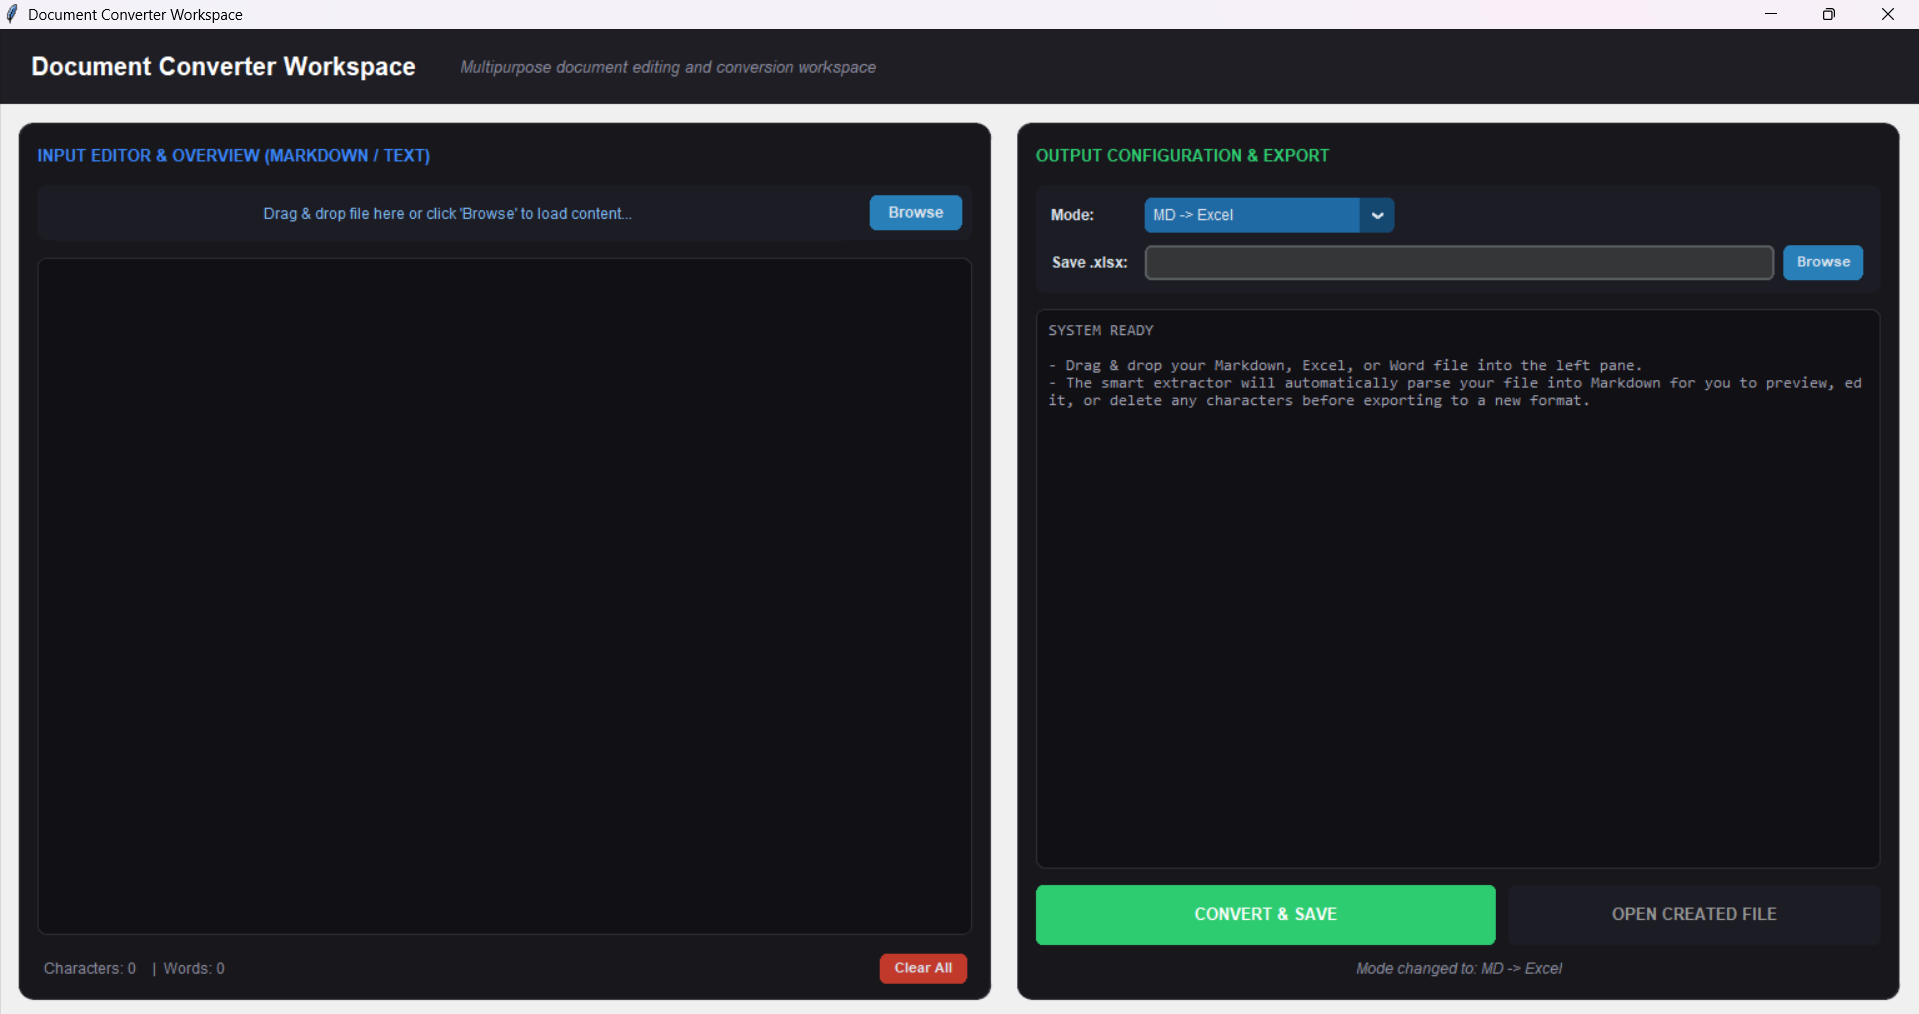
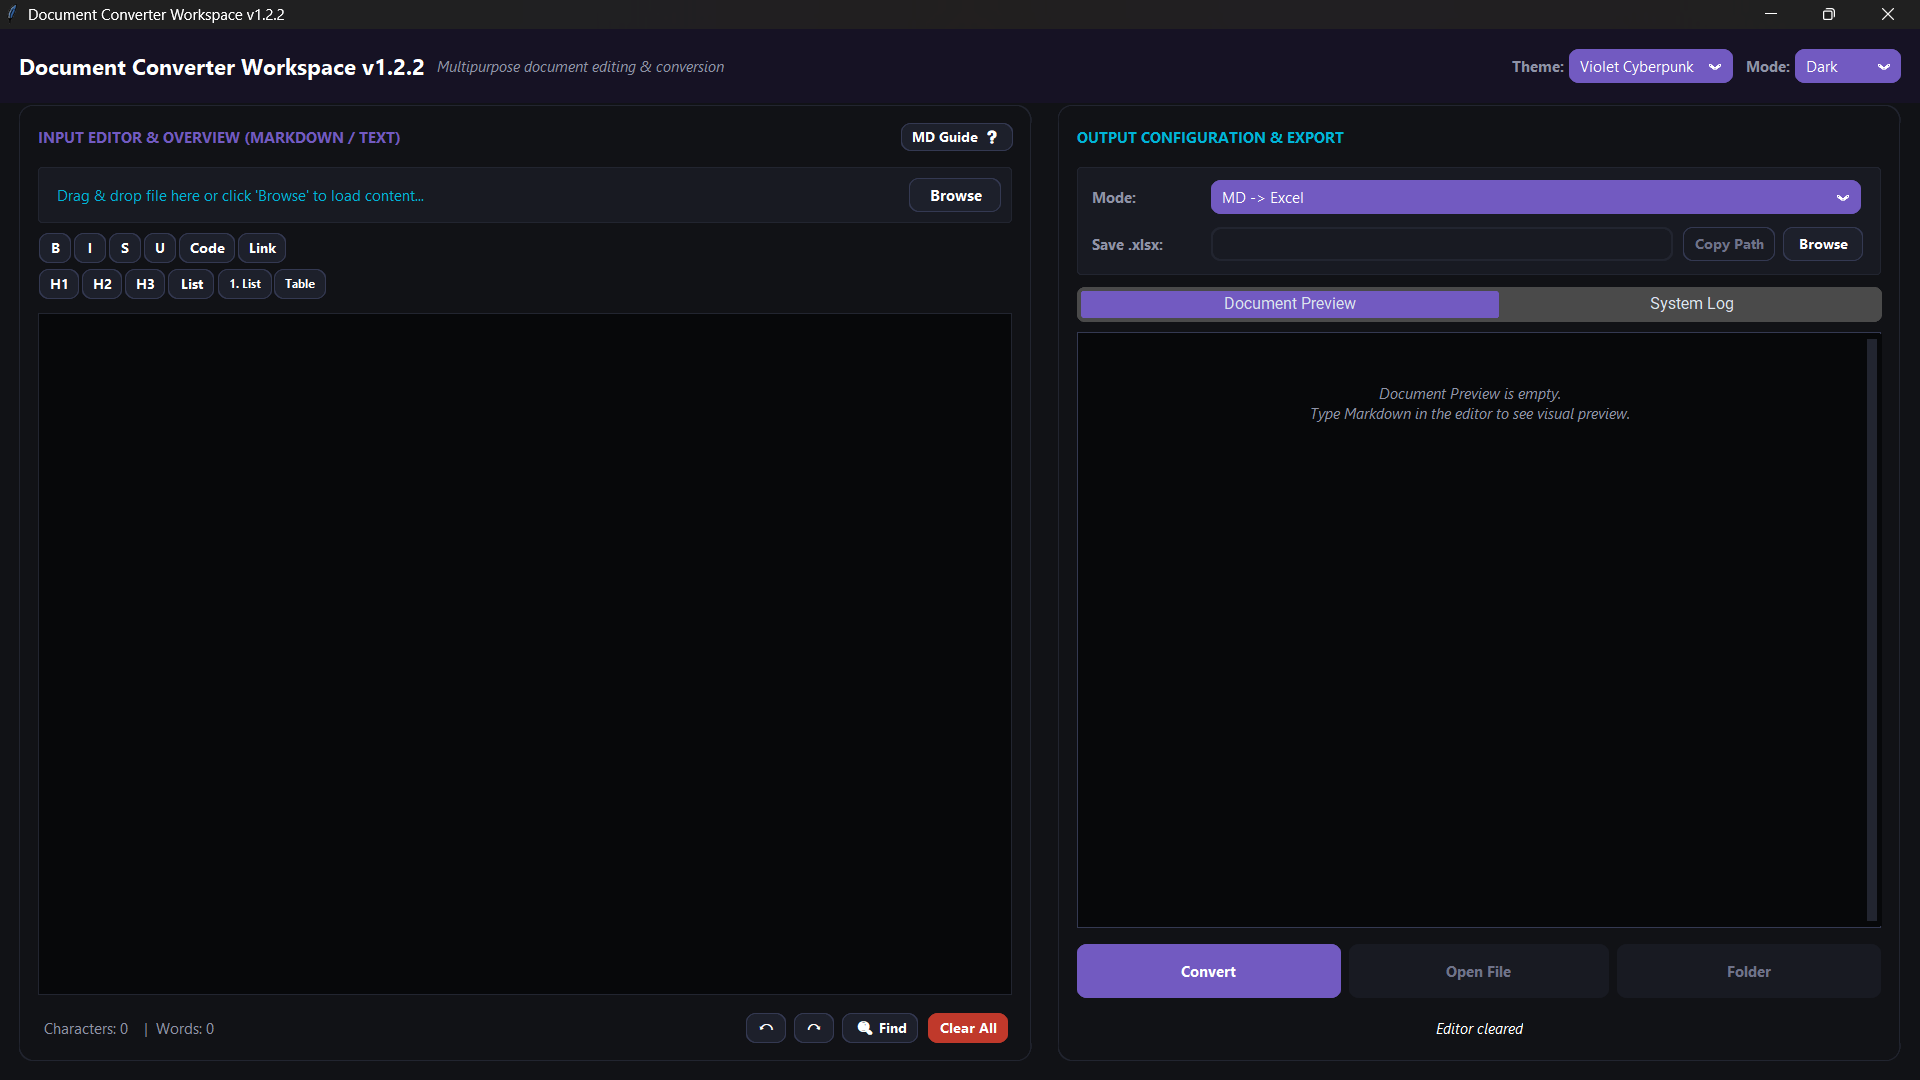
bump: update version to 1.2.2 and update app screenshot

Changed region(s): [[0.0, 0.0, 1.0, 1.0], [0.8301, 0.8866, 0.9224, 0.9172]]

diff --git a/src/__version__.py b/src/__version__.py
@@ -1,1 +1,1 @@
-__version__ = "1.2.1"
+__version__ = "1.2.2"